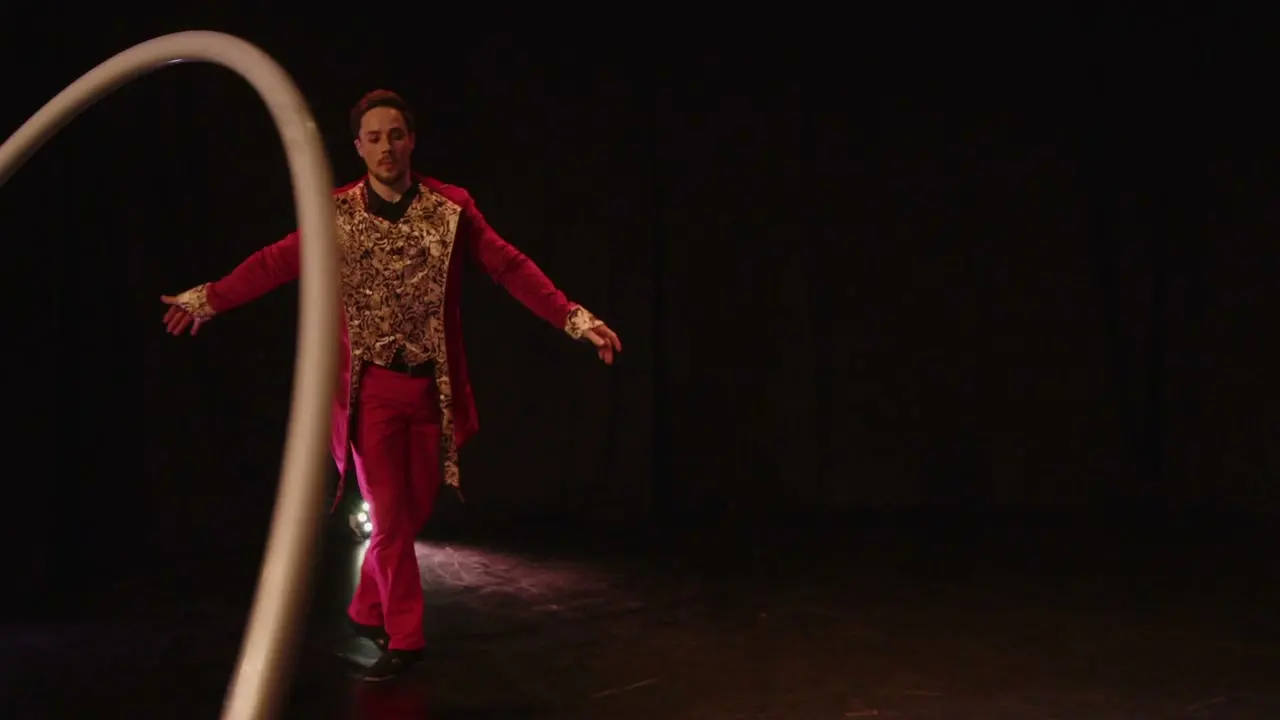
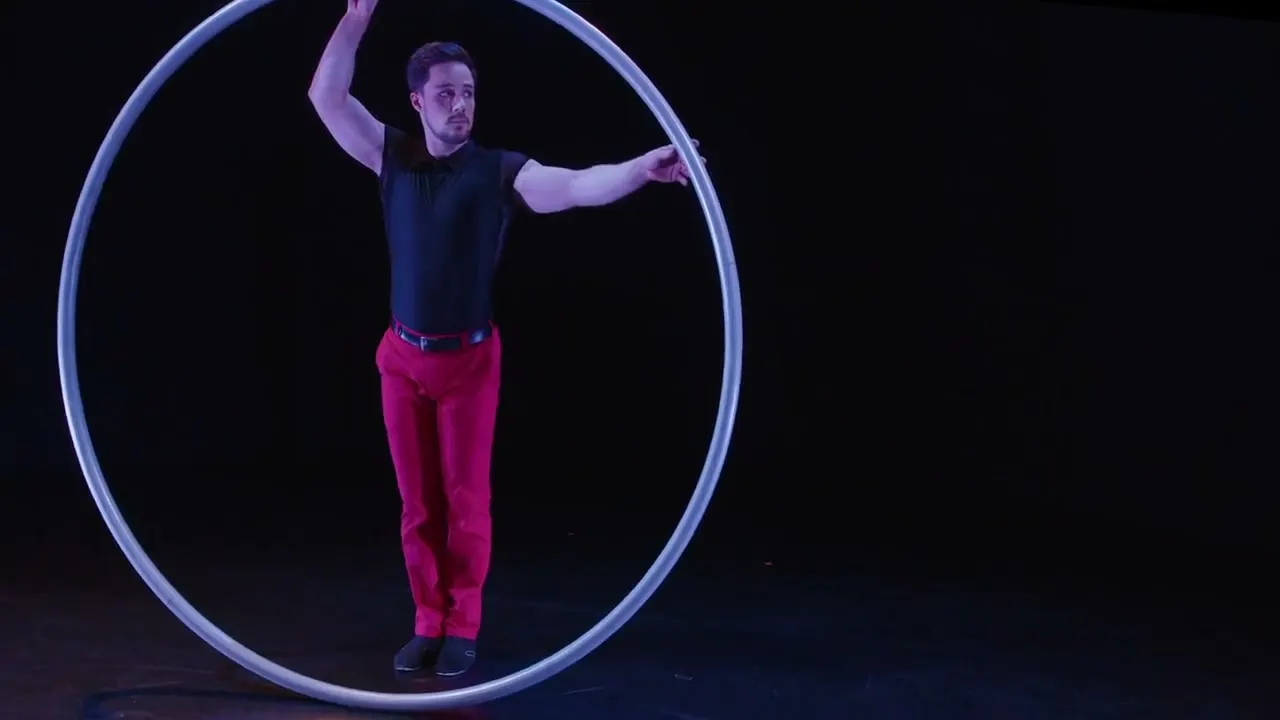
fix(acts): Auf den Karten ist der Artist zu sehen, nicht schwarze Flaeche
Beide Kartenvideos liefen ab Sekunde null. Dort ist die Buehne dunkel und
fast leer, der Artist lag am unteren Bildrand und die oberen zwei Drittel
waren schwarz. Die Karte las sich als leerer Kasten mit Beschriftung.

Die Karten starten jetzt an einer Stelle, an der er deutlich im Bild
steht: Aerial bei Sekunde 29, Cyr Wheel bei Sekunde 15. Die Standbilder
sind auf dieselben Momente neu erzeugt, damit Vorschau und Video
zusammenpassen.

Auf dem Handy stand die Karte auf min-h-[60vh] und fuellte damit 58
Prozent des Bildschirms. Ein festes Seitenverhaeltnis von 4 zu 3 bringt
sie auf 31 Prozent, unabhaengig von der Geraetehoehe.

"Klicken fuer Details" heisst jetzt "Video ansehen", denn auf dem Telefon
klickt niemand. Das Symbol daneben war ein Anmelde-Pfeil und ist jetzt
ein Abspiel-Symbol.

Changed region(s): [[0.0, 0.0, 0.875, 1.0]]

diff --git a/components/ActCard.tsx b/components/ActCard.tsx
@@ -10,6 +10,8 @@ type Props = {
   video: string;
   poster: string;
   videoTitle: string;
+  /** Sekunde, ab der die Karte laeuft */
+  startAt: number;
   hint: string;
   isInView: boolean;
   /** Startrichtung der Einblendung, negativ heisst von links */
@@ -26,6 +28,7 @@ export default function ActCard({
   video,
   poster,
   videoTitle,
+  startAt,
   hint,
   isInView,
   offsetX,
@@ -58,9 +61,20 @@ export default function ActCard({
 
   // Ein nachtraeglich eingehaengtes <source> beachtet das Video erst nach
   // load(). Ohne diesen Aufruf bliebe dauerhaft nur das Standbild stehen.
+  // Danach an die gewaehlte Stelle springen, der Anfang beider Trailer ist leer.
   useEffect(() => {
-    if (shouldLoadVideo) videoRef.current?.load();
-  }, [shouldLoadVideo]);
+    const element = videoRef.current;
+    if (!shouldLoadVideo || !element) return;
+
+    const springen = () => {
+      if (startAt > 0 && element.duration > startAt) element.currentTime = startAt;
+    };
+
+    element.addEventListener("loadedmetadata", springen, { once: true });
+    element.load();
+
+    return () => element.removeEventListener("loadedmetadata", springen);
+  }, [shouldLoadVideo, startAt]);
 
   const open = () => onOpen(videoRef.current?.currentTime ?? 0);
 
@@ -70,7 +84,7 @@ export default function ActCard({
       initial={{ opacity: 0, x: offsetX }}
       animate={isInView ? { opacity: 1, x: 0 } : { opacity: 0, x: offsetX }}
       transition={{ duration: 0.8, delay }}
-      className={`card relative min-h-[60vh] cursor-pointer overflow-hidden border border-earth-200 bg-earth-900 shadow-md transition-transform duration-300 hover:scale-[1.02] hover:shadow-xl focus-visible:outline-none focus-visible:ring-2 focus-visible:ring-accent md:min-h-[500px] ${className}`}
+      className={`card relative aspect-[4/3] cursor-pointer overflow-hidden border border-earth-200 bg-earth-900 shadow-md transition-transform duration-300 hover:scale-[1.02] hover:shadow-xl focus-visible:outline-none focus-visible:ring-2 focus-visible:ring-accent md:aspect-auto md:min-h-[500px] ${className}`}
       onClick={open}
       onKeyDown={(e) => {
         if (e.key === "Enter" || e.key === " ") {
@@ -120,9 +134,8 @@ export default function ActCard({
             strokeLinejoin="round"
             aria-hidden="true"
           >
-            <path d="M15 3h4a2 2 0 0 1 2 2v14a2 2 0 0 1-2 2h-4" />
-            <polyline points="10 17 15 12 10 7" />
-            <line x1="15" y1="12" x2="3" y2="12" />
+            <circle cx="12" cy="12" r="10" />
+            <polygon points="10 8 16 12 10 16 10 8" fill="currentColor" stroke="none" />
           </svg>
           <span>{hint}</span>
         </div>

diff --git a/lib/i18n.ts b/lib/i18n.ts
@@ -42,13 +42,13 @@ export const translations = {
           "Dieses Video zeigt eine umfassende Performance mit dem Cyr Wheel und gibt einen Einblick in die Vielseitigkeit und Präzision der Artistik.",
         showSecondTrailer: "Zweiten Trailer ansehen",
         showFirstTrailer: "Zurück zum ersten Trailer",
-        clickForDetails: "Klicken für Details",
+        watchVideo: "Video ansehen",
       },
       aerial: {
         title: "Aerial",
         description:
           "Schwerelos in der Vertikalen. Grazie verbindet sich mit athletischer Kontrolle zu Momenten poetischer Spannung. Elegant, kraftvoll, präzise.",
-        clickForDetails: "Klicken für Details",
+        watchVideo: "Video ansehen",
       },
       customActs: {
         title: "Individuelle Acts",
@@ -78,6 +78,11 @@ export const translations = {
       emailPlaceholder: "ihre@email.de",
       emailRequired: "Bitte geben Sie Ihre E-Mail-Adresse ein.",
       emailInvalid: "Bitte geben Sie eine gültige E-Mail-Adresse ein.",
+      eventDate: "Datum der Veranstaltung",
+      eventDatePlaceholder: "optional",
+      eventLocation: "Ort",
+      eventLocationPlaceholder: "optional, z. B. Berlin",
+      optional: "optional",
       message: "Nachricht",
       messagePlaceholder: "Erzählen Sie mir von Ihrem Event...",
       messageRequired: "Bitte geben Sie eine Nachricht ein.",
@@ -147,13 +152,13 @@ export const translations = {
           "This video showcases a comprehensive performance with the Cyr Wheel and provides insight into the versatility and precision of the artistry.",
         showSecondTrailer: "Watch second trailer",
         showFirstTrailer: "Back to the first trailer",
-        clickForDetails: "Click for Details",
+        watchVideo: "Watch video",
       },
       aerial: {
         title: "Aerial",
         description:
           "Weightless in the vertical. Grace combines with athletic control into moments of poetic tension. Elegant, powerful, precise.",
-        clickForDetails: "Click for Details",
+        watchVideo: "Watch video",
       },
       customActs: {
         title: "Custom Acts",
@@ -183,6 +188,11 @@ export const translations = {
       emailPlaceholder: "your@email.com",
       emailRequired: "Please enter your email address.",
       emailInvalid: "Please enter a valid email address.",
+      eventDate: "Date of the event",
+      eventDatePlaceholder: "optional",
+      eventLocation: "Location",
+      eventLocationPlaceholder: "optional, e.g. Berlin",
+      optional: "optional",
       message: "Message",
       messagePlaceholder: "Tell me about your event...",
       messageRequired: "Please enter a message.",

diff --git a/data/acts.tsx b/data/acts.tsx
@@ -38,6 +38,9 @@ export type Act = {
   video: string;
   poster: string;
   videoTitle: string;
+  /** Sekunde, ab der die Karte laeuft. Der Anfang beider Trailer ist dunkel
+      und fast leer, hier steht der Artist deutlich im Bild. */
+  startAt: number;
 };
 
 export const acts: Act[] = [
@@ -46,12 +49,14 @@ export const acts: Act[] = [
     video: "/Straps_Trailer.mp4",
     poster: "/StrapsPoster.webp",
     videoTitle: "Karlo Janke Aerial Straps Performance Trailer",
+    startAt: 29,
   },
   {
     id: "cyrWheel",
     video: "/Cyr-Wheel_Trailer.mp4",
     poster: "/CyrWheelPoster.webp",
     videoTitle: "Karlo Janke Cyr Wheel Performance Trailer",
+    startAt: 15,
   },
 ];
 
